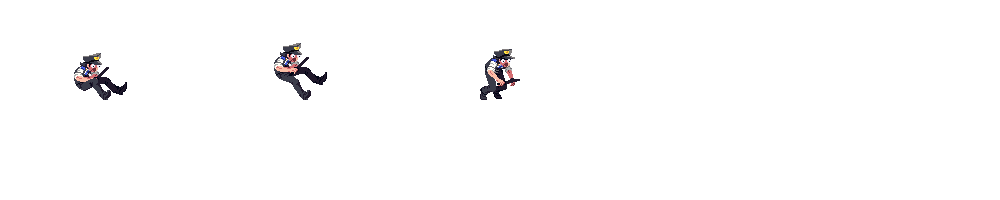
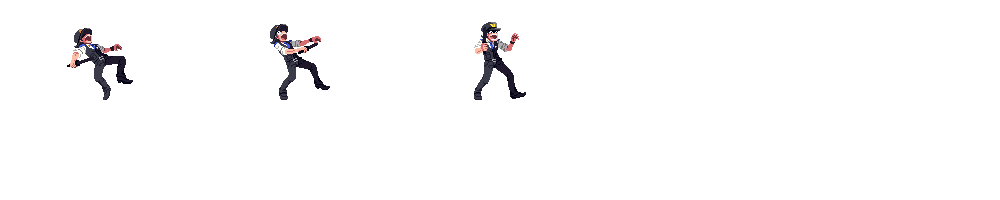
민경운 : Enemy_Cop WallOut 리소스 수정

Changed region(s): [[0.465, 0.12, 0.527, 0.51], [0.248, 0.12, 0.341, 0.51], [0.062, 0.15, 0.155, 0.51]]

diff --git a/Dx2dGameMKU/GameEngineContents/CrossTownLevel3.cpp b/Dx2dGameMKU/GameEngineContents/CrossTownLevel3.cpp
@@ -83,5 +83,5 @@ void CrossTownLevel3::CreateDoors()
 
 void CrossTownLevel3::CreateEnemies()
 {
-	GetEnemySpawner().CreateEnemy(EnemyType::Waver, float4::Down * 50.f);
+	GetEnemySpawner().CreateEnemy(EnemyType::Cop, float4::Down * 50.f);
 }
